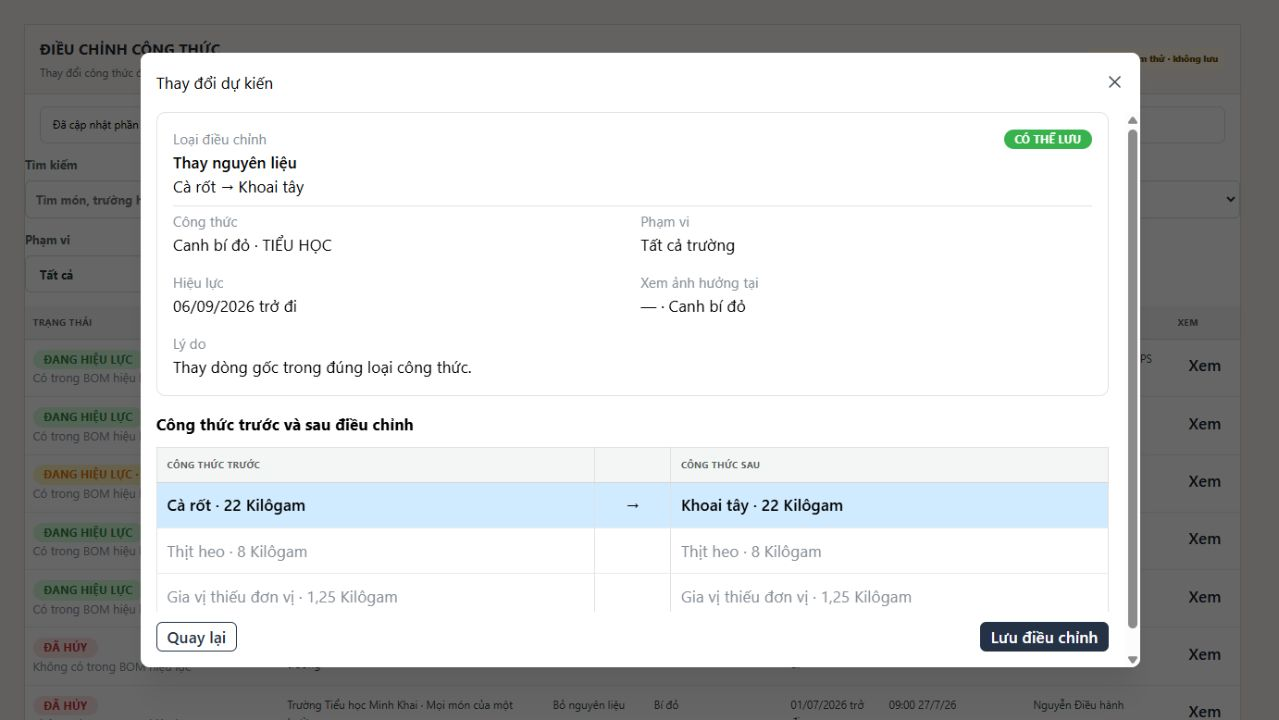
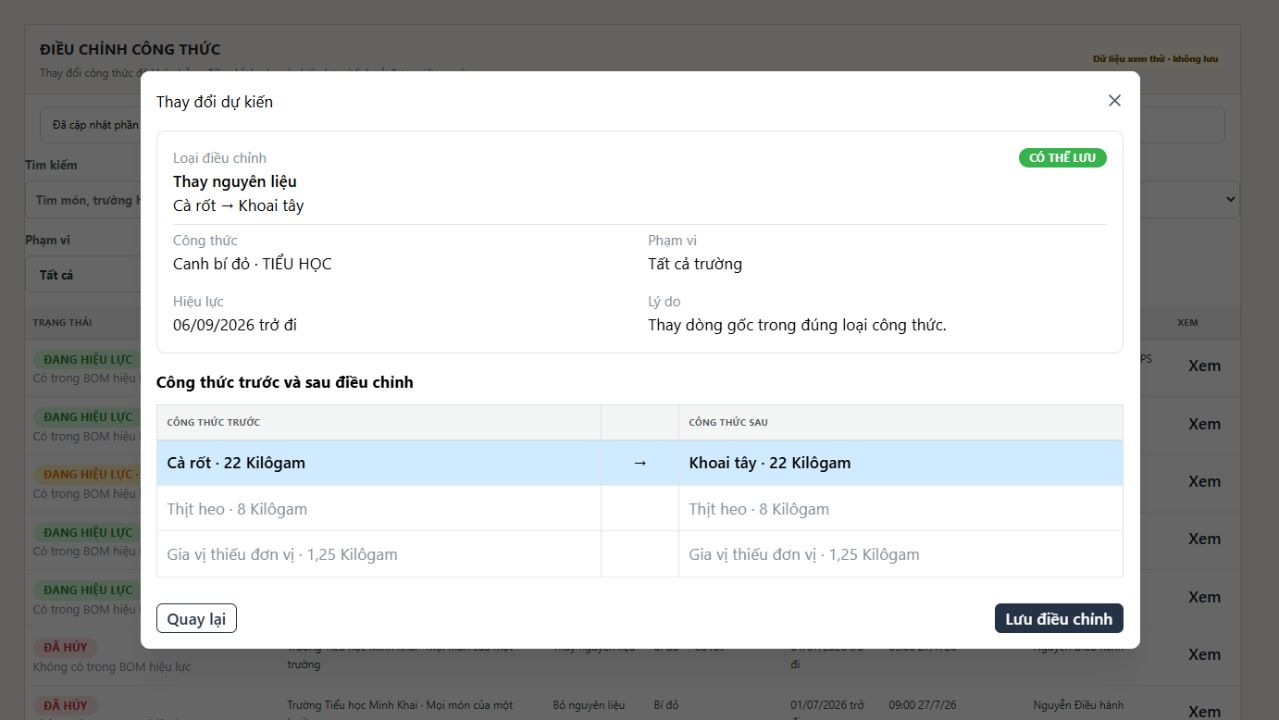
fix(atlas): remove redundant system preview context

diff --git a/src/modules/admin/RecipeAdjustmentWorkbench.tsx b/src/modules/admin/RecipeAdjustmentWorkbench.tsx
@@ -2213,11 +2213,16 @@ export function RecipeAdjustmentWorkbench({
                     }
                   />
 
-                  <Divider label="Xem ảnh hưởng tại" labelPosition="left" />
-                  <Text size="sm" c="dimmed">
-                    Đây là bối cảnh dùng để xem trước; phạm vi áp dụng vẫn theo
-                    lựa chọn ở trên.
-                  </Text>
+                  {(draft.scope === "SYSTEM_INGREDIENT" ||
+                    draft.scope === "SCHOOL") && (
+                    <>
+                      <Divider label="Xem ảnh hưởng tại" labelPosition="left" />
+                      <Text size="sm" c="dimmed">
+                        Đây là bối cảnh dùng để xem trước; phạm vi áp dụng vẫn
+                        theo lựa chọn ở trên.
+                      </Text>
+                    </>
+                  )}
 
                   {draft.scope === "SYSTEM_INGREDIENT" && (
                     <SimpleGrid cols={{ base: 1, sm: 2 }}>
@@ -2253,13 +2258,6 @@ export function RecipeAdjustmentWorkbench({
                     </SimpleGrid>
                   )}
 
-                  {draft.scope === "SYSTEM_DISH" && (
-                    <Text size="sm">
-                      Món và loại công thức đã được xác định trong phạm vi điều
-                      chỉnh.
-                    </Text>
-                  )}
-
                   {draft.scope === "SCHOOL" && (
                     <Select
                       label="Món dùng để xem"
@@ -2276,12 +2274,6 @@ export function RecipeAdjustmentWorkbench({
                         updateDraft({ previewDishId: value ?? "" })
                       }
                     />
-                  )}
-
-                  {draft.scope === "SCHOOL_DISH" && (
-                    <Text size="sm">
-                      Trường và món đã được xác định trong phạm vi điều chỉnh.
-                    </Text>
                   )}
                 </Stack>
               )}
@@ -2382,18 +2374,18 @@ export function RecipeAdjustmentWorkbench({
                         )}
                       </Text>
                     </Box>
-                    <Box>
-                      <Text size="sm" c="dimmed">
-                        Xem ảnh hưởng tại
-                      </Text>
-                      <Text>{previewContextText}</Text>
-                      {draftBusinessObject === "INGREDIENT" && (
+                    {draftBusinessObject === "INGREDIENT" && (
+                      <Box>
+                        <Text size="sm" c="dimmed">
+                          Xem ảnh hưởng tại
+                        </Text>
+                        <Text>{previewContextText}</Text>
                         <Text size="xs" c="dimmed" mt={4}>
                           Đây là bối cảnh dùng để xem trước; phạm vi áp dụng vẫn
                           theo lựa chọn ở trên.
                         </Text>
-                      )}
-                    </Box>
+                      </Box>
+                    )}
                     <Box>
                       <Text size="sm" c="dimmed">
                         Lý do

diff --git a/src/modules/admin/RecipeAdjustmentWorkbench.test.tsx b/src/modules/admin/RecipeAdjustmentWorkbench.test.tsx
@@ -276,6 +276,9 @@ describe("Recipe Change Order first-user workbench", () => {
     expect(
       within(dialog).queryByText(/chưa hỗ trợ xem và lưu điều chỉnh/i),
     ).not.toBeInTheDocument();
+    expect(
+      within(dialog).queryByText("Xem ảnh hưởng tại"),
+    ).not.toBeInTheDocument();
     const previewButton = within(dialog).getByRole("button", {
       name: "Xem ảnh hưởng",
     });
@@ -284,6 +287,9 @@ describe("Recipe Change Order first-user workbench", () => {
     const review = await screen.findByRole("dialog", {
       name: "Thay đổi dự kiến",
     });
+    expect(
+      within(review).queryByText("Xem ảnh hưởng tại"),
+    ).not.toBeInTheDocument();
     expect(preview.mock.calls[0][2]).toMatchObject({
       dish_id: fixtureIds.dish,
       school_type_id: fixtureIds.schoolType,
